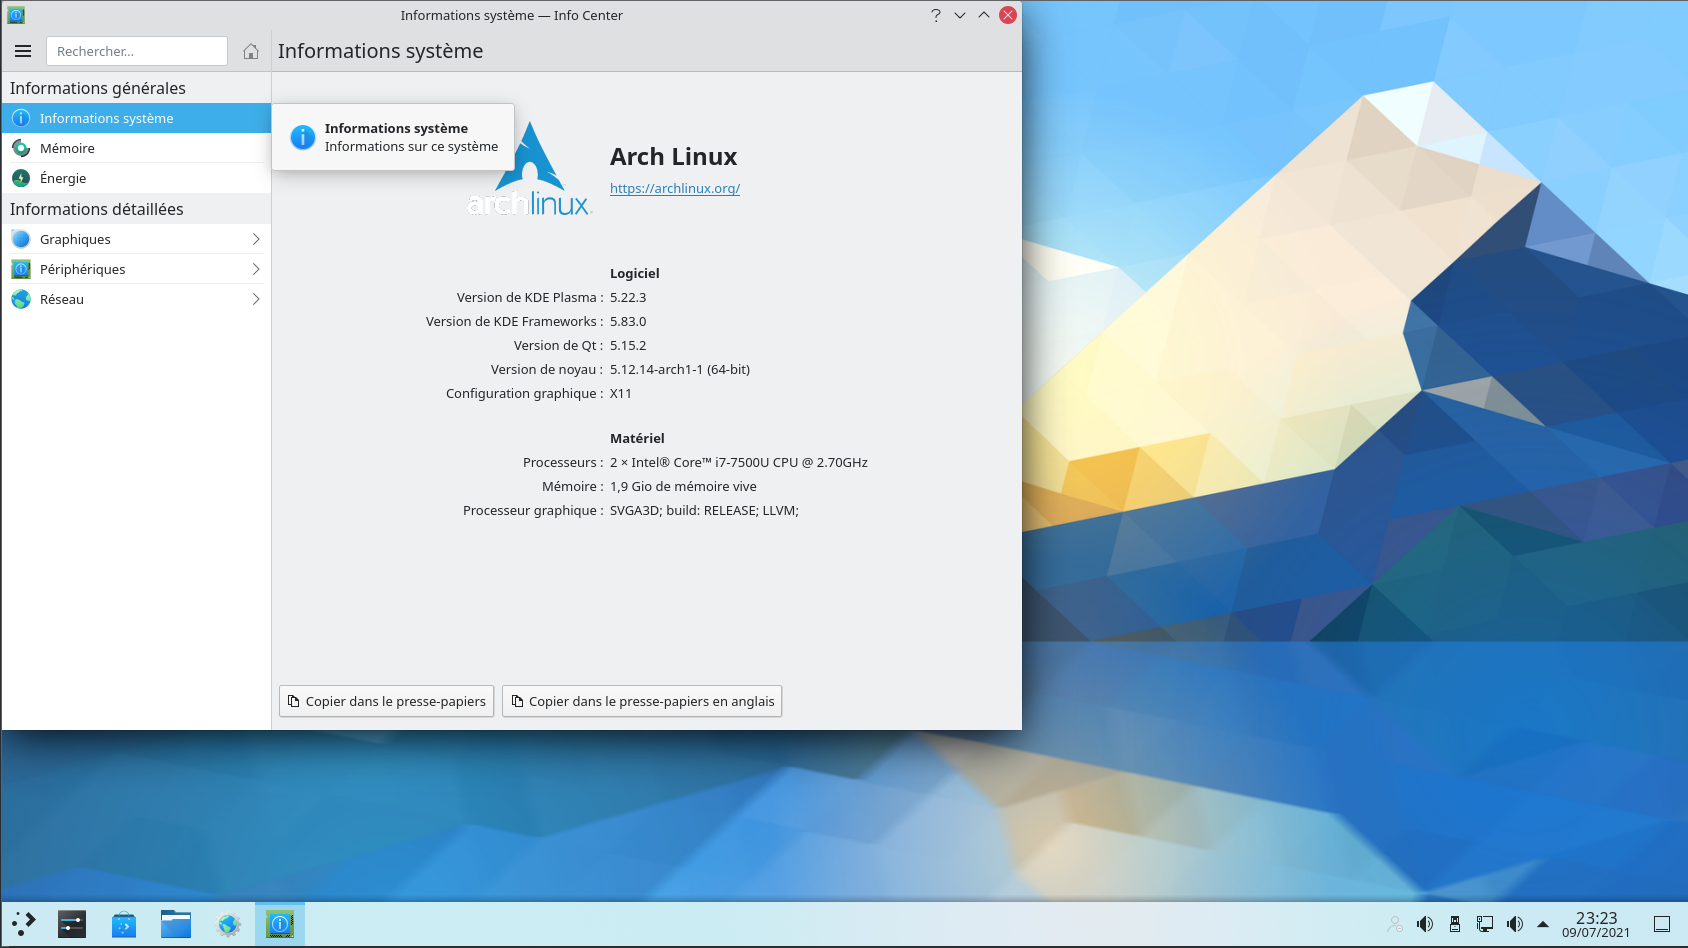
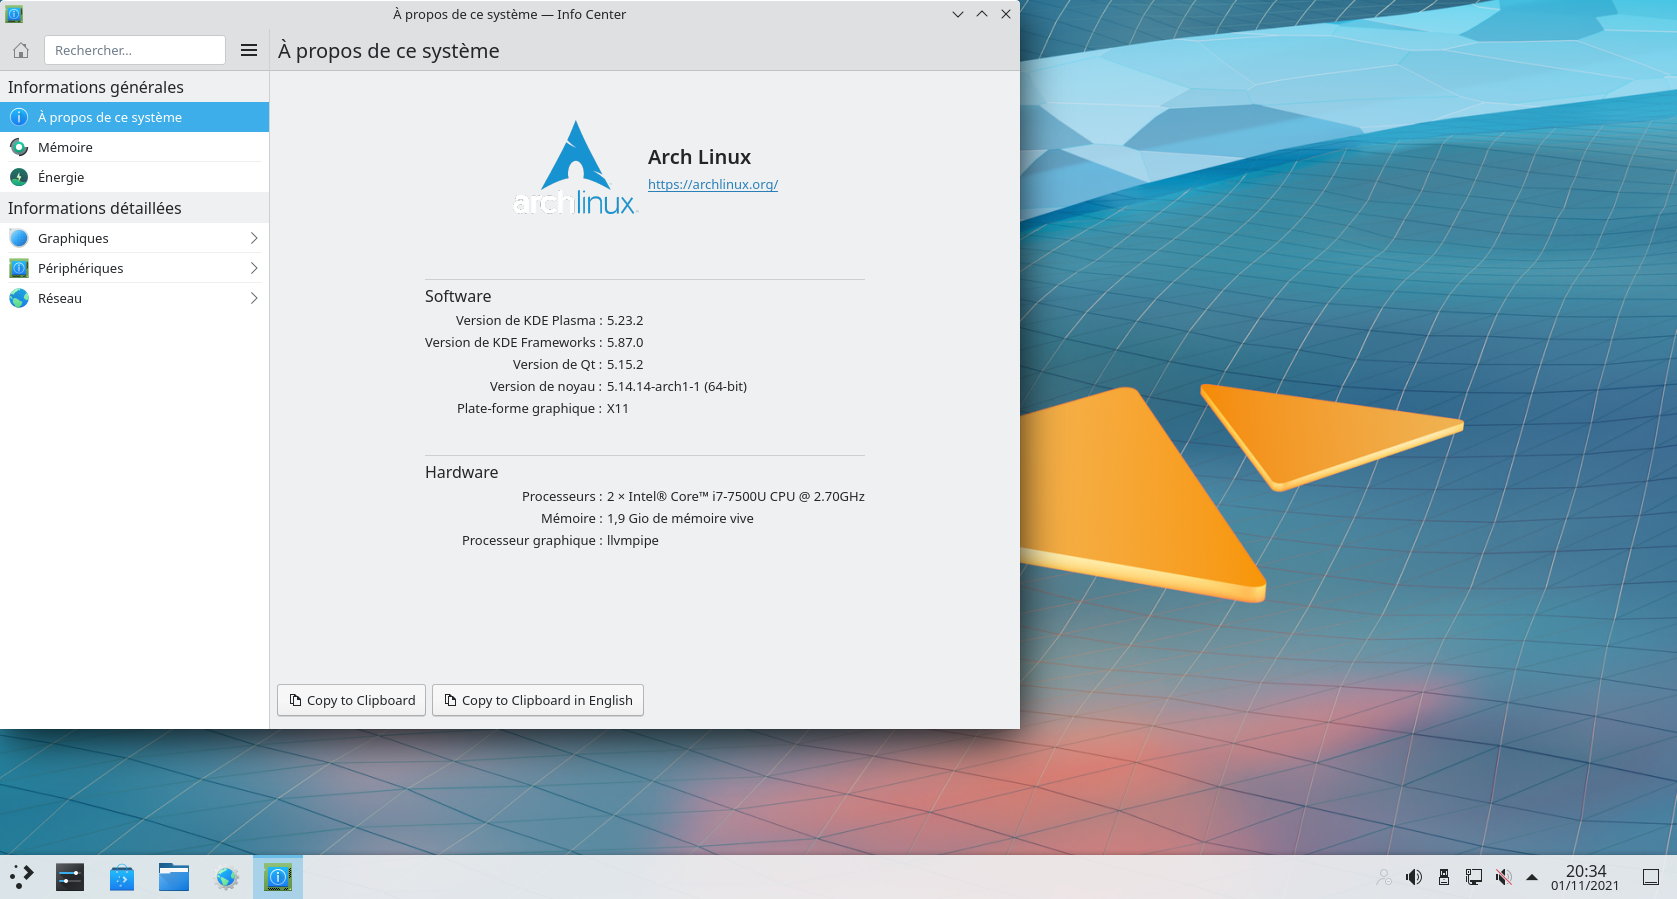
modifié :         install.md 	modifié :         pictures/mate.png 	modifié :         pictures/plasma.png 	modifié :         pictures/xfce.png

diff --git a/install.md b/install.md
@@ -504,9 +504,9 @@ Il faut penser à vérifier que le clavier est correctement configuré. Ce qui s
 
 Pour finir une capture d’écran du mode « Gnome Shell ».
 
-![Gnome Shell 40](pictures/gnome.png)
+![Gnome Shell 40.4.0](pictures/gnome.png)
 
-*Gnome Shell 40*
+*Gnome Shell 40.4.0*
 
 #### b) Installons KDE Plasma
 
@@ -533,9 +533,9 @@ Si tout se passe bien, on peut utiliser pour l'activer:
 sudo systemctl enable sddm
 ```
 
-![Illustration 14: Plasma 5.22.3](pictures/plasma.png)
+![Illustration 14: Plasma 5.23.2](pictures/plasma.png)
 
-*Illustration 14: Plasma 5.22.3*
+*Illustration 14: Plasma 5.23.2*
 
 #### c) Installons Xfce, Mate ou Cinnamon 
 
@@ -560,7 +560,7 @@ sudo pacman -S xfce4 xfce4-goodies gvfs quodlibet python-pyinotify lightdm-gtk-g
 Pour Mate :
 
 ```
-sudo pacman -S mate mate-extra lightdm-gtk-greeter gnome-icon-theme vlc quodlibet python-pyinotify accountsservice claws-mail ffmpegthumbnailer pulseaudio-{alsa,bluetooth} blueman network-manager-applet system-config-printer
+sudo pacman -S mate mate-extra lightdm-gtk-greeter gnome-icon-theme vlc quodlibet python-pyinotify claws-mail ffmpegthumbnailer pulseaudio-{alsa,bluetooth} blueman network-manager-applet system-config-printer
 ```
 
 Enfin, pour Cinnamon :
@@ -568,7 +568,6 @@ Enfin, pour Cinnamon :
 ```
 sudo pacman -S cinnamon cinnamon-translations gnome-{terminal,screenshot,calculator,extra} eog evince file-roller gedit lightdm-gtk-greeter shotwell rhythmbox system-config-printer
 ```
-
 Comme vous pouvez le remarquer, l'installation de ces 3 environnements est complétée par divers logiciels types, comme quodlibet (et sa dépendance python-pyniotify) pour la musique ou claws-mail comme client mail.
 
 Si vous voulez personnaliser votre lightdm :
@@ -595,9 +594,9 @@ sudo systemctl enable lightdm
 
 *Xfce 4.16 en action.*
 
-![Mate Desktop 1.24.1](pictures/mate.png)
+![Mate Desktop 1.26.0](pictures/mate.png)
 
-*Mate Desktop 1.24.1*
+*Mate Desktop 1.26.0*
 
 ![Cinnamon 5.0.5](pictures/cinnamon.png)
 
